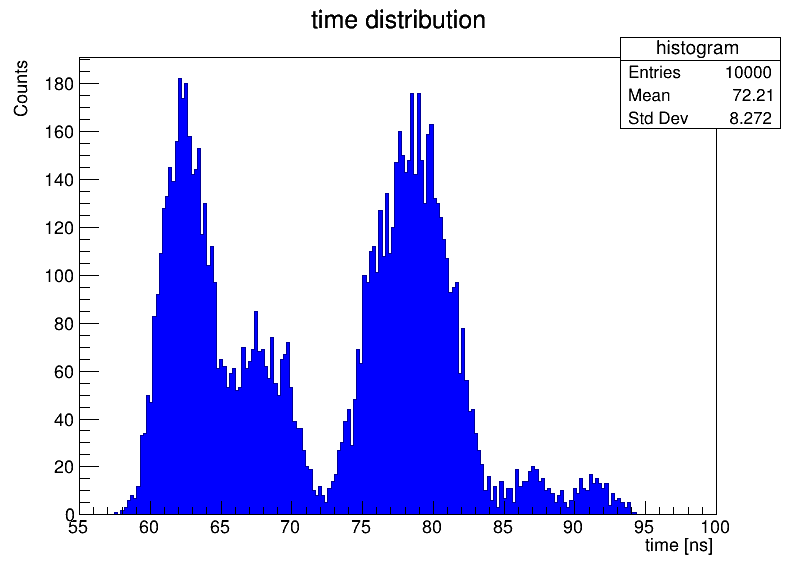
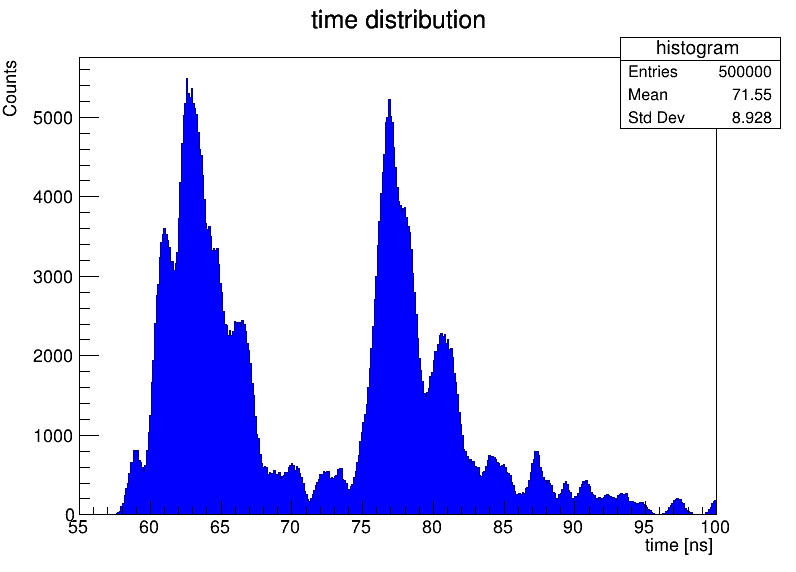
new commit

diff --git a/time_distribution.C b/time_distribution.C
@@ -34,18 +34,18 @@ int main() {
     std::mt19937 g(rd());
     std::shuffle(time.begin(), time.end(), g);
     
-    TH1F *histogram = new TH1F("histogram", "time distribution", 200, 55, 100);
+    TH1F *histogram = new TH1F("histogram", "time distribution", 400, 55, 100);
 histogram->SetFillColor(kBlue); // Imposta il colore di riempimento dell'istogramma a rosso
 histogram->SetXTitle("time [ns]"); // Imposta l'etichetta dell'asse x
 histogram->SetYTitle("Counts"); // Imposta l'etichetta dell'asse y
     // Seleziona i primi n eventi dal vettore time (o meno se il vettore ha meno di n elementi)
-    int numEventsToSelect = std::min(100, static_cast<int>(time.size()));
+    int numEventsToSelect = std::min(500, static_cast<int>(time.size()));
  
     // Creazione di gaussiane solo per gli eventi selezionati in modo casuale
-    double sigma = 1;
+    double sigma =0.35;
     for (int i = 0; i < numEventsToSelect; ++i) {
       double mean = time[i];
-      for (int j = 0; j < 100; ++j) {
+      for (int j = 0; j < 1000; ++j) {
 	histogram->Fill(generateGaussian(mean, sigma, g));
         }
     }
